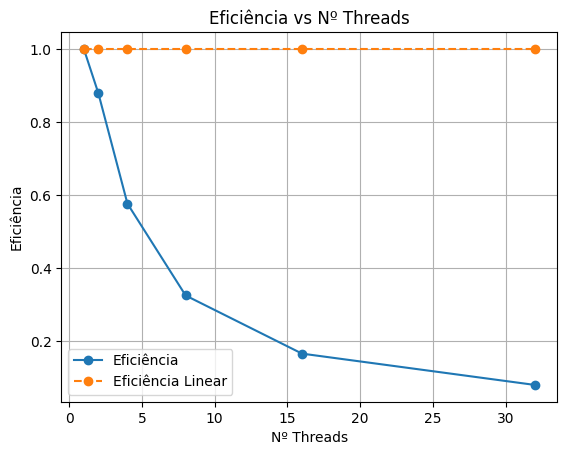
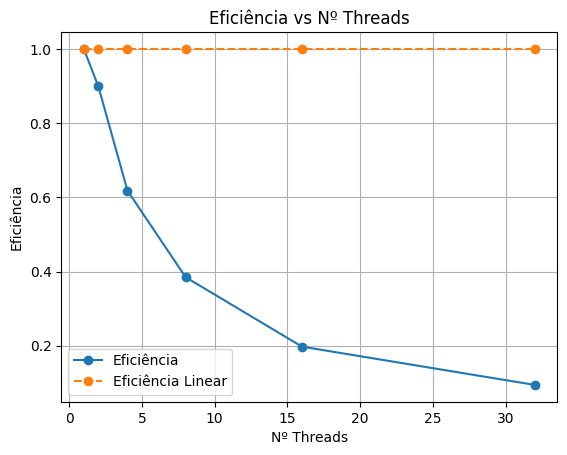
[Fix] Update performance analysis data and plots

diff --git a/docs/main.tex b/docs/main.tex
@@ -82,7 +82,7 @@ Para ilustrar o funcionamento da implementação, foram gerados mapas de calor, 
 \label{fig:heatmap}
 \end{figure}
 
-Analisando a progressão dos mapas de calor, observamos que o comportamento faz sentido no contexto da solução proposta. Inicialmente, o contaminante é adicionado com alta concentração nas diagonais e no centro da matriz, evidenciado pelas regiões brancas. Com o avanço das iterações, o contaminante começa a se difundir para as regiões adjacentes, aumentando gradativamente a luminosidade nessas áreas e diminuindo nos pontos de concentração inicial. Na última iteração, a concentração se distribui uniformemente pela matriz, com valores próximos entre si.
+Analisando a progressão dos mapas de calor, observamos que o comportamento faz sentido no contexto da solução proposta. Inicialmente, o contaminante é adicionado com alta concentração nas diagonais e no centro da matriz, evidenciado pelas regiões azuis escuras. Com o avanço das iterações, o contaminante começa a se difundir para as regiões adjacentes, aumentando gradativamente a luminosidade nessas áreas e diminuindo nos pontos de concentração inicial. Na última iteração, a concentração se distribui uniformemente pela matriz, com valores próximos entre si.
 
 \subsection{Análise de Desempenho}
 
@@ -140,17 +140,17 @@ Para obter valores mais consistentes e minimizar influências externas, como out
  \hline
  Nº Threads & Tempo & Speedup & Eficiência \\ [0.5ex] 
  \hline\hline
- 1 & 23.00 $\pm$ 0.95 & 1.0 & 100\% \\ 
+ 1 & 26.22 $\pm$ 2.09 & 1.0 & 100\% \\ 
  \hline
- 2 & 13.09 $\pm$ 1.19 &  1.76 & 87,86\% \\
+ 2 & 14.59 $\pm$ 1.49 & 1.80 & 89,88\% \\
  \hline
- 4 & 9.98 $\pm$ 1.14 & 2.31 & 57.62\% \\
+ 4 & 10.60 $\pm$ 1.43 & 2.47 & 61.82\% \\
  \hline
- 8 & 8.85 $\pm$ 1.21 & 2.60 & 32.50\% \\
+ 8 & 8.52 $\pm$ 1.32 & 3.08 & 38.48\% \\
  \hline
- 16 & 8.66 $\pm$ 1.13 & 2.65 & 16.59\% \\
+ 16 & 8.29 $\pm$ 1.29 & 3.16 & 19.77\% \\
  \hline
- 32 & 8.95 $\pm$ 1.21 & 2.56 & 8.02\% \\ 
+ 32 & 8.67 $\pm$ 1.43 & 3.03 & 9.45\% \\ 
  \hline
 \end{tabular}
 \end{table}
